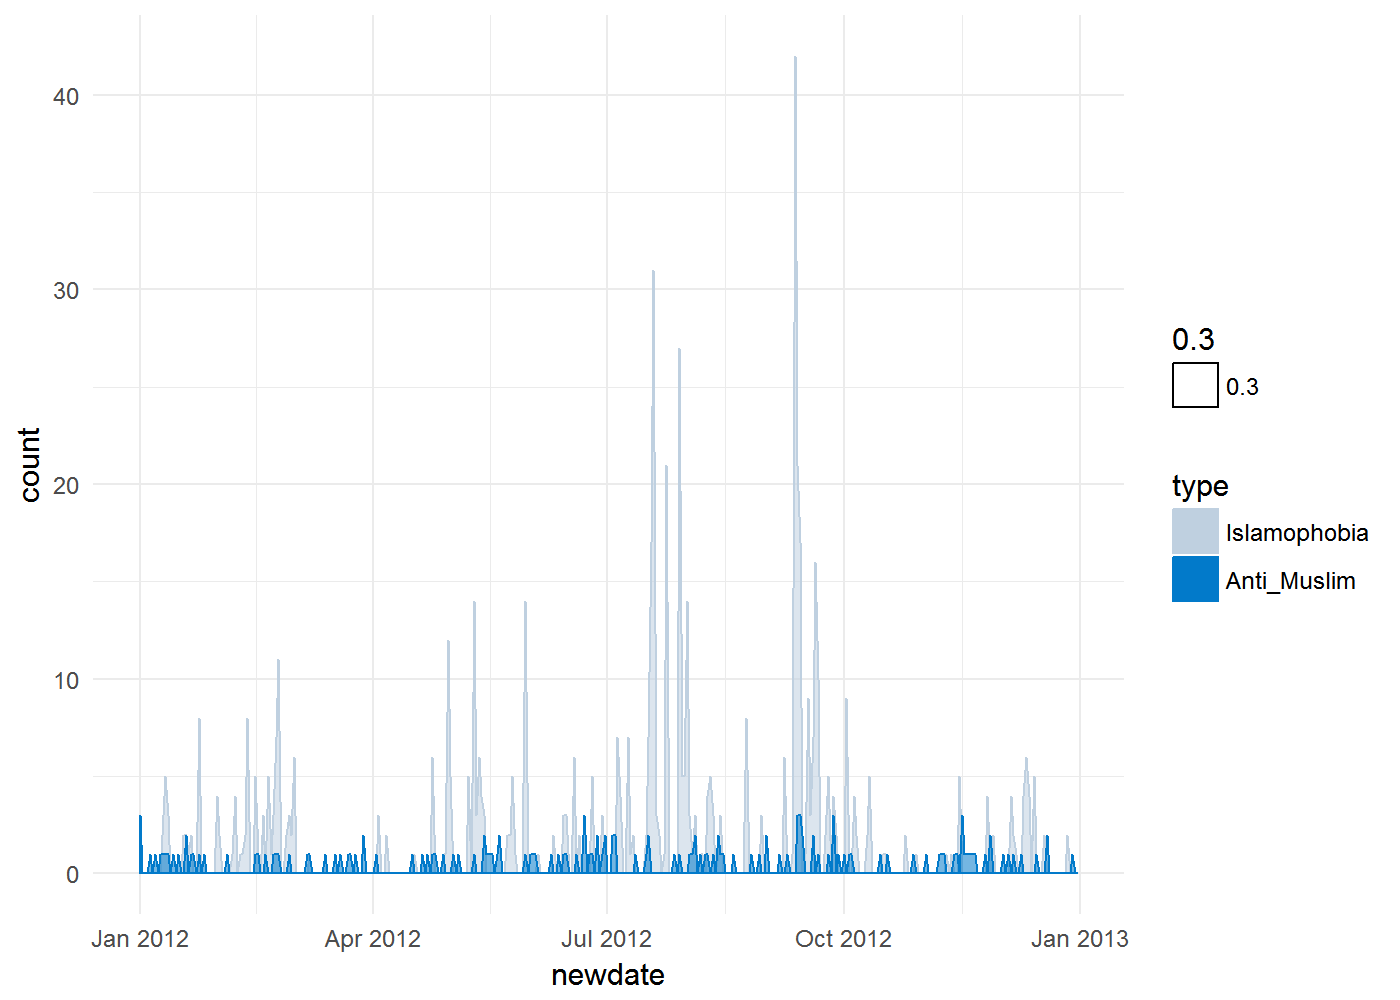
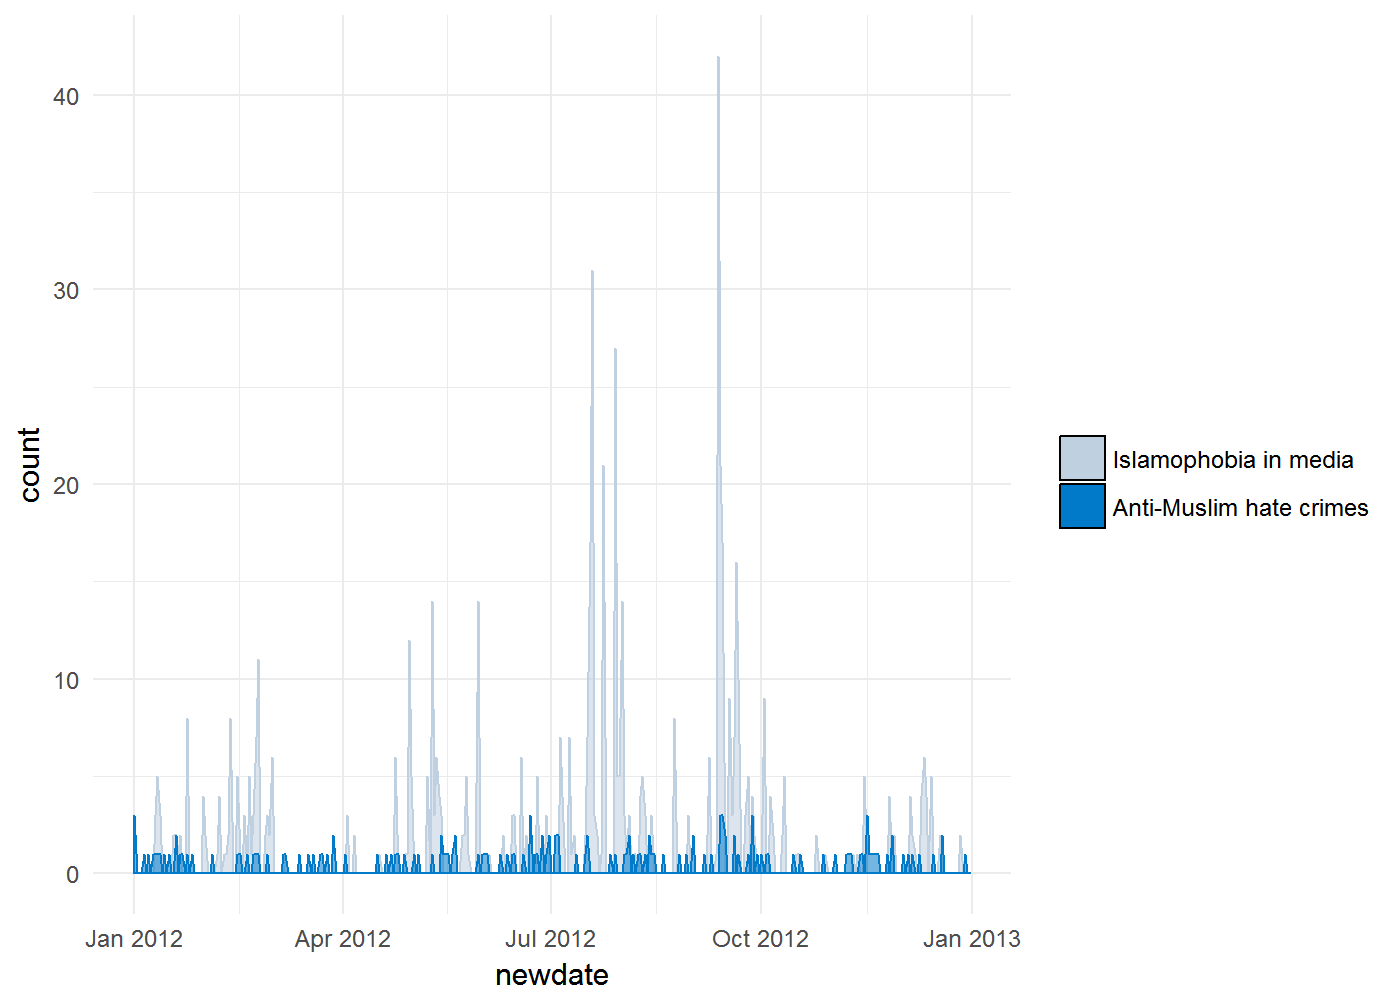
ok

diff --git a/Visualizations/Time_Series.md b/Visualizations/Time_Series.md
@@ -211,7 +211,8 @@ ggplot(data = join_2011, aes(x=newdate, y=count, col=type, fill=type, alpha=.3))
 <img src="Time_Series_files/figure-markdown_github/unnamed-chunk-3-1.png" width="1000px" />
 
 ``` r
-ggplot(data = join_2012, aes(x=newdate, y=count, col=type, fill=type, alpha=.3)) + geom_density(stat = "identity") + theme_minimal() + scale_fill_manual(values=c("#bfd0e0", "#027aca")) + scale_color_manual(values=c("#bfd0e0", "#027aca"))
+ggplot(data = join_2012, aes(x=newdate, y=count, col=type, fill=type, alpha=.3)) + geom_density(stat = "identity") + theme_minimal() + scale_fill_manual(values=c("#bfd0e0", "#027aca"), name="",
+                         labels=c("Islamophobia in media", "Anti-Muslim hate crimes")) + scale_color_manual(values=c("#bfd0e0", "#027aca"), guide=FALSE) + scale_alpha(guide=FALSE)
 ```
 
 <img src="Time_Series_files/figure-markdown_github/unnamed-chunk-3-2.png" width="1000px" />
